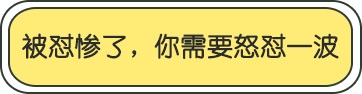
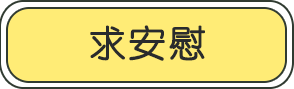
btn img

Changed region(s): [[0.0, 0.0, 1.0, 1.0]]

diff --git a/css/main.css b/css/main.css
@@ -370,7 +370,7 @@ body .Container {
     background-repeat: no-repeat;
     margin: 0 auto;
     position: relative;
-    margin-top: 0.32rem;
+    margin-top: 1.28rem;
 }
 
 #questionTemplate .problemDesc img.question {
@@ -435,7 +435,7 @@ body .Container {
 }
 
 #questionTemplate .answers ul li:nth-child(2), #questionTemplate .answers ul li:nth-child(3) {
-    margin-top: 0.36rem;
+    margin-top: 0.52rem;
 }
 
 #questionTemplate .answers ul li img {
@@ -566,6 +566,11 @@ body .Container {
 .questionRetry .applyerror {
     width: 3.02rem;
     height: 0.86rem;
+    margin: 0 auto;
+}
+.questionRetry.questionError4 .applyerror {
+    width: 2.94rem;
+    height: 0.89rem;
     margin: 0 auto;
 }
 
@@ -771,6 +776,10 @@ body .Container {
     height: 0.86rem;
     margin: 0 auto;
     margin-top: 0.32rem;
+}
+#question4End .applysuccess {
+    width: 3.02rem;
+    height: 0.99rem;
 }
 
 .questionEnd .applysuccess:active {

diff --git a/index.html b/index.html
@@ -344,7 +344,7 @@
             <img src="images/answermiddle_03.png" alt="">
         </div>
         <div class="applysuccess">
-            <img src="images/applysuccess_07.png" direct=".worseEnd">
+            <img src="images/answer4correct_51.png" direct=".worseEnd">
         </div>
     </div>
 
